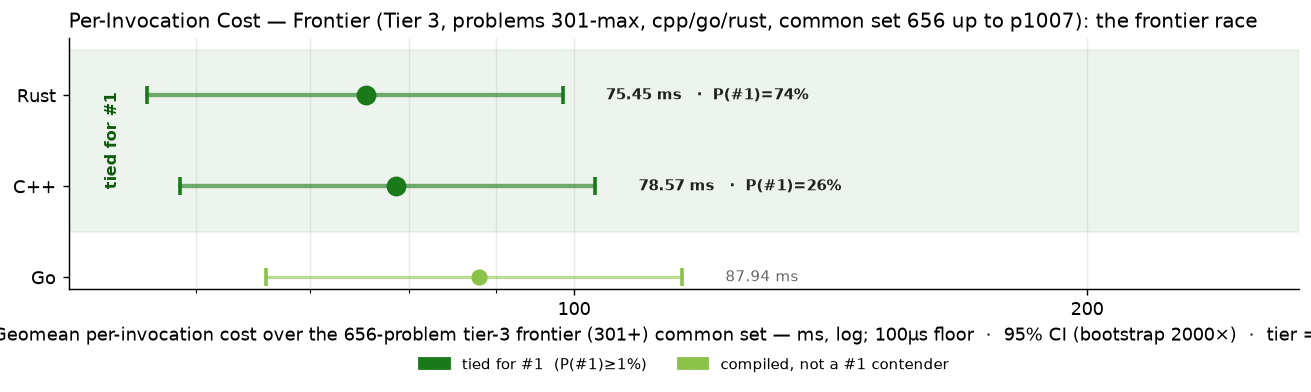
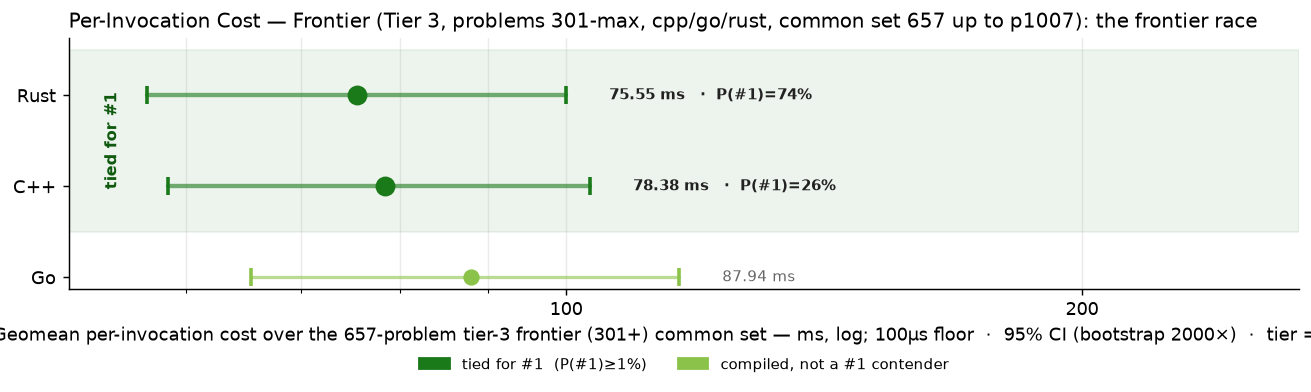
go p0808

diff --git a/RESULTS.md b/RESULTS.md
@@ -1,6 +1,6 @@
 # Project Euler — Cross-Language Benchmarks
 
-> **Scope: 4521 in-scope cells across 1007 problems × tiered languages — 4418 measured (97.7% coverage).**
+> **Scope: 4521 in-scope cells across 1007 problems × tiered languages — 4419 measured (97.7% coverage).**
 > The cross-language ranking below is computed over the **200-problem common set** (problems in 1-200 where every language has a passing measurement) — the apples-to-apples Foundation comparison surface.  Per-tier rankings and coverage detail appear further below.
 > Growing carefully — each new problem and language is audited for state-leak
 > safety, verified for answer correctness, and added only when it cleanly fits the
@@ -70,15 +70,15 @@ Same scatter as the Foundation chart, restricted to the tier-2 active languages 
 
 The frontier verification trio — C++, Go, Rust — on problems above 300. 3-way cross-language agreement is the verification protocol (strictly stronger than 2-way; see JOURNEY.md "Tier Reframing" episode for the p254 lesson that motivated it). Python and Zig are explicitly out of this tier — python's wall cost makes it impractical at level 5+, and zig's role caps at Tier 2.
 
-### Per-Invocation Cost (Common Set, 656 of ≤707 problems in scope)
+### Per-Invocation Cost (Common Set, 657 of ≤707 problems in scope)
 
 ![Per-Invocation Cost — Tier 3](charts/per_iter_total_tier3.png)
 
-| Rank | Language | Geomean (656-problem common set) | Total (sum) | Lines of code | vs Fastest |
+| Rank | Language | Geomean (657-problem common set) | Total (sum) | Lines of code | vs Fastest |
 |------|----------|--------------------:|------------:|--------------:|-----------:|
-| 1 | **Rust** | 75.45 ms | 1760.80 s | 132,131 | 1.00× |
-| 2 | **C++** | 78.57 ms | 1903.01 s | 96,008 | 1.04× |
-| 3 | **Go** | 87.94 ms | 2131.30 s | 122,214 | 1.17× |
+| 1 | **Rust** | 75.55 ms | 1760.97 s | 132,271 | 1.00× |
+| 2 | **C++** | 78.38 ms | 1903.02 s | 96,109 | 1.04× |
+| 3 | **Go** | 87.94 ms | 2131.39 s | 122,372 | 1.16× |
 
 ### Speed vs Code Size
 
@@ -266,7 +266,7 @@ table never silently mixes versions (METHODOLOGY.md §4).  Current state of the
 | **C** | `Apple clang version 21.0.0 (clang-2100.1.1.101)` | 200 | 2026-07-30 |
 | **C++** | `Apple clang version 21.0.0 (clang-2100.1.1.101)` | 957 | 2026-09-06 |
 | **C#** | `10.0.101` | 200 | 2026-07-30 |
-| **Go** | `go version go1.26.5 darwin/arm64` | 959 | 2026-09-06 |
+| **Go** | `go version go1.26.5 darwin/arm64` | 960 | 2026-09-06 |
 | **Java** | `openjdk version "21.0.2" 2024-01-16 LTS` | 200 | 2026-07-30 |
 | **JavaScript** | `v24.18.0` | 200 | 2026-07-30 |
 | **Python** | `Python 3.14.6` | 318 | 2026-08-07 |

diff --git a/per_problem/per_problem_0801-0900.md b/per_problem/per_problem_0801-0900.md
@@ -15,7 +15,7 @@ in tier-1 display order (native → managed → interpreted).
 | **p0805** | 113.57 ms | 27.52 ms | 18.04 ms |
 | **p0806** | 155.39 ms | 220.58 ms | 143.55 ms |
 | **p0807** | 23.54 ms | 4.86 ms | 109.95 ms |
-| **p0808** | 15.91 ms | 169.86 ms | — |
+| **p0808** | 15.91 ms | 169.86 ms | 88.89 ms |
 | **p0809** | 23.3 µs | 12.22 ms | 60.34 ms |
 | **p0810** | 9.57 s | 2.00 s | 8.93 s |
 | **p0811** | 79.53 ms | 34.56 ms | 12.38 ms |
